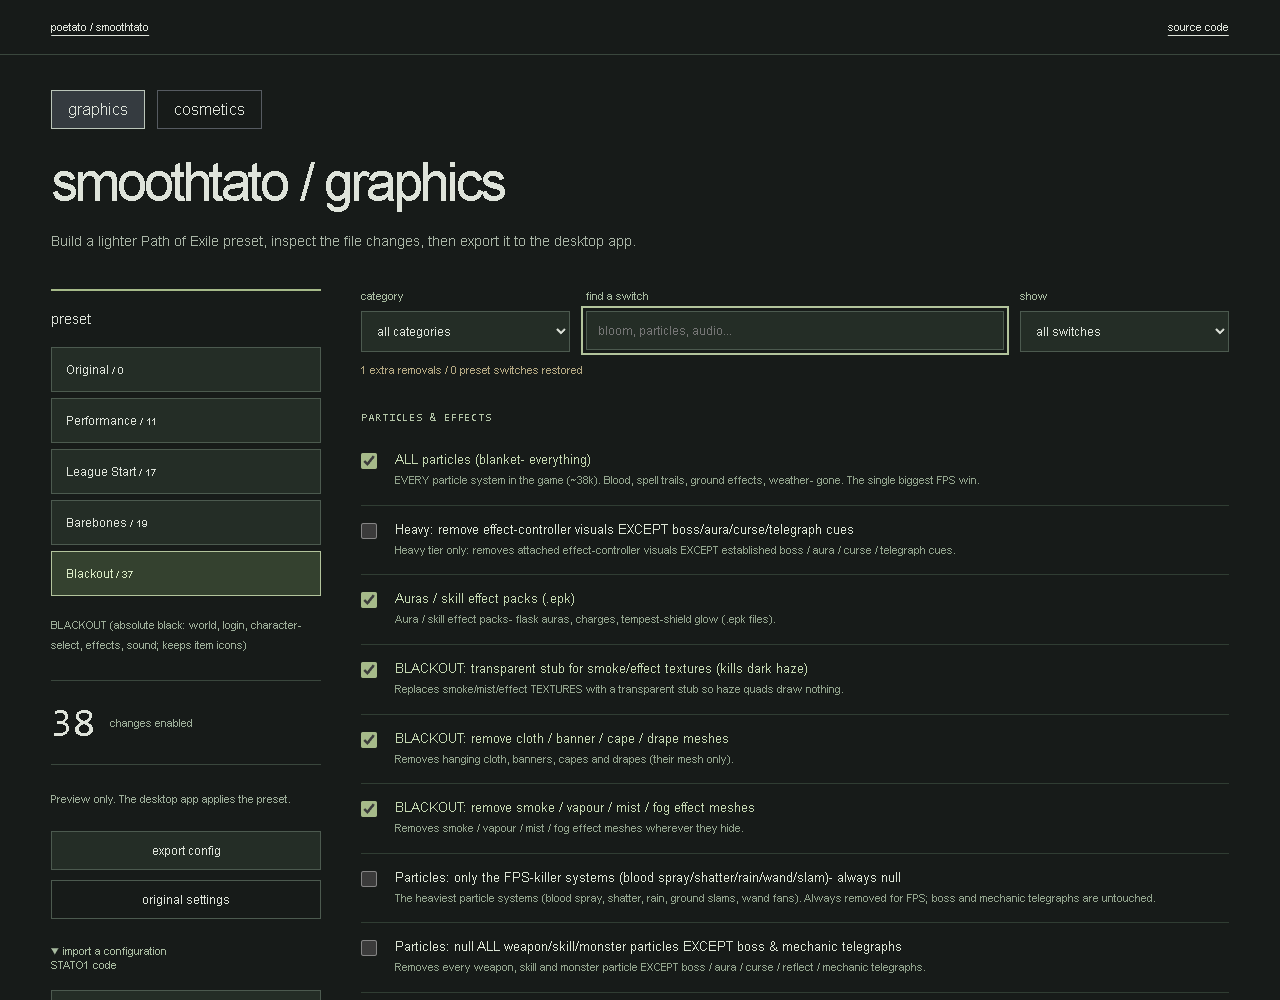
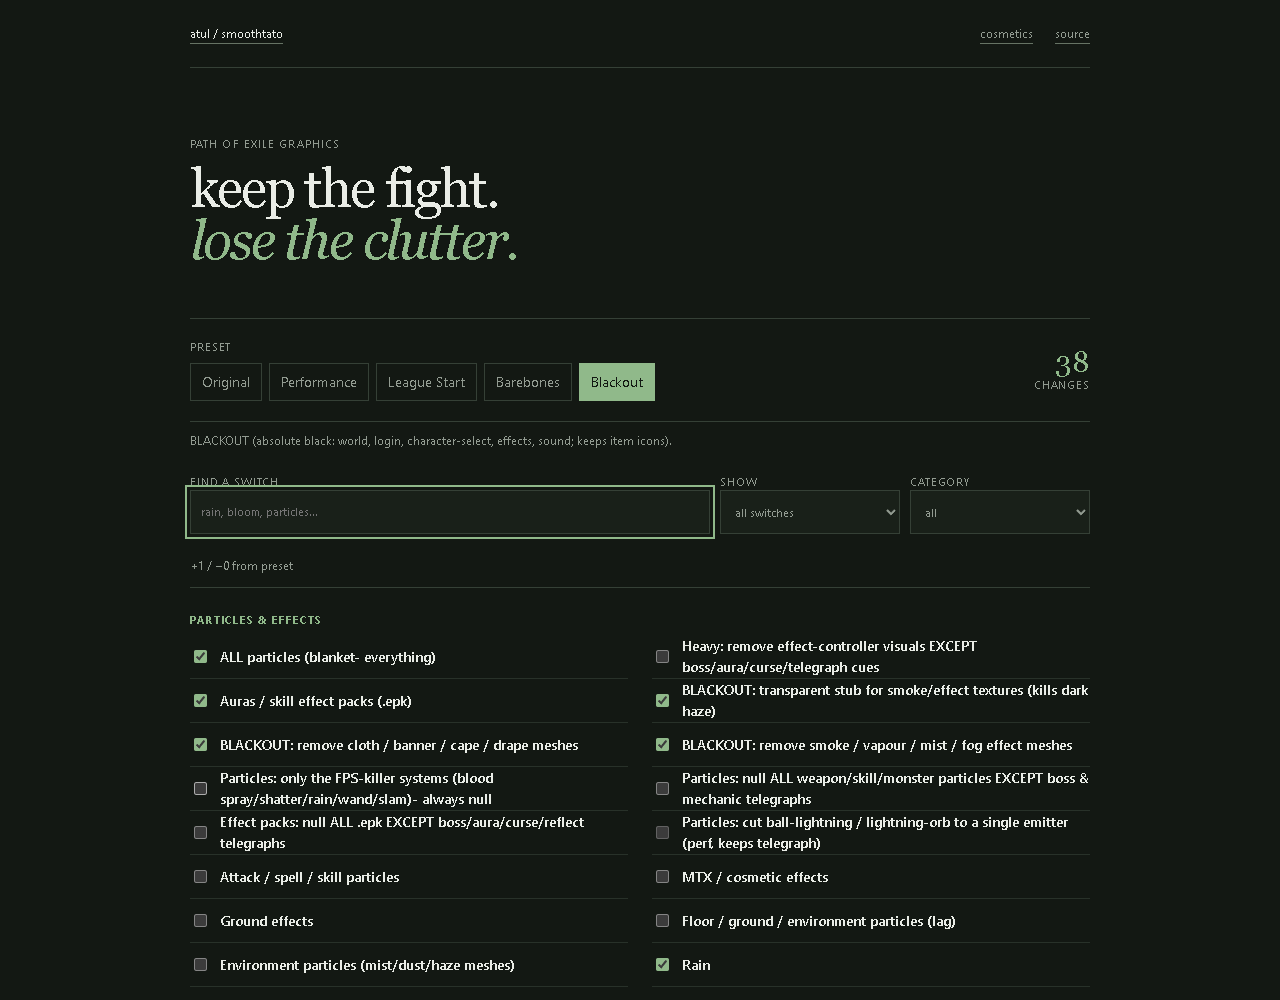
Simplify preset demo

diff --git a/examples/portfolio/style.css b/examples/portfolio/style.css
@@ -1,255 +1,1 @@
-:root {
-    color-scheme: dark;
-    background: #171b19;
-    color: #dee3da;
-    font-family: Arial, sans-serif;
-}
-* {
-    box-sizing: border-box;
-}
-body {
-    margin: 0;
-}
-a {
-    color: inherit;
-    text-underline-offset: 4px;
-}
-header {
-    display: flex;
-    justify-content: space-between;
-    padding: 20px 4vw;
-    border-bottom: 1px solid #3a473d;
-    font-size: 11px;
-}
-main {
-    max-width: 1280px;
-    margin: auto;
-    padding: 35px 4vw;
-}
-h1 {
-    font-size: 54px;
-    font-weight: 500;
-    letter-spacing: -0.055em;
-    margin: 5px 0 15px;
-}
-.intro {
-    font-size: 14px;
-    color: #a9b5a6;
-    max-width: 740px;
-    line-height: 1.8;
-    margin-bottom: 35px;
-}
-.workspace {
-    display: grid;
-    grid-template-columns: 270px minmax(0, 1fr);
-    gap: 40px;
-}
-aside {
-    border-top: 2px solid #a6ba89;
-    padding-top: 8px;
-}
-h2 {
-    font-size: 14px;
-    font-weight: 400;
-}
-button,
-input,
-select,
-textarea {
-    font:
-        12px Arial,
-        sans-serif;
-    color: #dee3da;
-    background: #242d26;
-    border: 1px solid #4c5a4f;
-    padding: 11px;
-}
-button {
-    cursor: pointer;
-}
-button:focus-visible,
-input:focus-visible,
-select:focus-visible {
-    outline: 2px solid #b3c49c;
-    outline-offset: 3px;
-}
-#presets {
-    display: flex;
-    flex-direction: column;
-    gap: 6px;
-    margin: 20px 0;
-}
-#presets button {
-    text-align: left;
-    padding: 14px;
-}
-#presets button[aria-pressed="true"] {
-    border-color: #b3c49c;
-    color: #d9eac5;
-    background: #34412f;
-}
-#preset-description,
-.note,
-#status {
-    font-size: 11px;
-    line-height: 1.8;
-    color: #9cad98;
-}
-.meter {
-    display: flex;
-    align-items: center;
-    gap: 15px;
-    border-top: 1px solid #3a473d;
-    border-bottom: 1px solid #3a473d;
-    padding: 18px 0;
-    margin: 25px 0;
-}
-.meter strong {
-    font: 40px monospace;
-}
-.meter span {
-    font-size: 11px;
-    color: #9cad98;
-    max-width: 120px;
-}
-#export,
-#restore {
-    width: 100%;
-    margin-top: 10px;
-}
-#restore {
-    background: transparent;
-}
-details {
-    font-size: 11px;
-    margin-top: 25px;
-    color: #a8bba0;
-}
-label {
-    display: flex;
-    flex-direction: column;
-    gap: 8px;
-    font-size: 11px;
-    color: #a8bba0;
-}
-.search-row {
-    display: flex;
-    gap: 16px;
-}
-.search-row label:first-child {
-    flex: 1;
-}
-input,
-textarea {
-    width: 100%;
-}
-textarea {
-    margin: 10px 0;
-}
-.group-title {
-    font: 11px monospace;
-    letter-spacing: 0.08em;
-    text-transform: uppercase;
-    color: #b2c4a6;
-    margin: 28px 0 12px;
-}
-.switch {
-    display: grid;
-    grid-template-columns: 22px minmax(0, 1fr);
-    gap: 12px;
-    padding: 15px 0;
-    border-bottom: 1px solid #303d33;
-    cursor: pointer;
-}
-.switch input {
-    width: 16px;
-    height: 16px;
-    accent-color: #a6ba89;
-    margin: 2px 0;
-}
-.switch strong {
-    font-size: 13px;
-    font-weight: 400;
-    color: #dce5d5;
-}
-.switch small {
-    display: block;
-    font-size: 11px;
-    color: #91a38c;
-    line-height: 1.6;
-    margin-top: 5px;
-}
-.switch:has(input:checked) strong {
-    color: #c4d8b1;
-}
-#differences {
-    font-size: 11px;
-    color: #b4a882;
-    min-height: 20px;
-}
-footer {
-    font-size: 11px;
-    color: #84937d;
-    border-top: 1px solid #3a473d;
-    margin-top: 35px;
-    padding-top: 20px;
-    line-height: 1.8;
-}
-@media (max-width: 700px) {
-    main {
-        padding: 25px 15px;
-    }
-    h1 {
-        font-size: 42px;
-    }
-    .workspace {
-        grid-template-columns: 1fr;
-        gap: 25px;
-    }
-    #presets {
-        display: grid;
-        grid-template-columns: repeat(2, minmax(0, 1fr));
-    }
-    .meter {
-        margin: 15px 0;
-    }
-    .search-row {
-        gap: 10px;
-    }
-    .search-row label {
-        min-width: 0;
-    }
-    .search-row input {
-        min-width: 0;
-    }
-    #presets button {
-        font-size: 11px;
-    }
-}
-
-.search-row {
-    display: grid;
-    grid-template-columns: 1fr 2fr 1fr;
-}
-.search-row label:first-child {
-    flex: initial;
-}
-.search-row select {
-    width: 100%;
-}
-@media (max-width: 600px) {
-    .search-row {
-        grid-template-columns: 1fr 1fr;
-    }
-    .search-row label:nth-child(2) {
-        grid-row: 1;
-        grid-column: 1/-1;
-    }
-}
-
-.tool-tabs{display:flex;gap:12px;margin:0 0 22px}.tool-tabs a{padding:9px 16px;border:1px solid #565b61;text-decoration:none;color:inherit}.tool-tabs [aria-current]{background:#353b40;border-color:#bbc6ba}
-
-/* Tactile without becoming decorative. */
-button{transition-property:color,background-color,border-color,scale;transition-duration:120ms;transition-timing-function:cubic-bezier(.2,0,0,1)}
-button:active:not(:disabled){scale:.96}
-@media(prefers-reduced-motion:reduce){button{transition:none}}
+:root{color-scheme:dark;--bg:#131813;--ink:#e9ece6;--muted:#929b91;--line:#354036;--green:#90b98a;--panel:#192019}*{box-sizing:border-box}body{margin:0;background:var(--bg);color:var(--ink);font:14px/1.5 "Segoe UI",Arial,sans-serif}a{color:inherit;text-decoration-color:#667364;text-underline-offset:5px}button,input,select,textarea{font:inherit;color:inherit;border-radius:0}:focus-visible{outline:2px solid var(--green);outline-offset:3px}header,main{width:min(900px,calc(100% - 48px));margin:auto}header{height:68px;display:flex;align-items:center;justify-content:space-between;border-bottom:1px solid var(--line);font-size:12px}header nav{display:flex;gap:22px;color:var(--muted)}main{padding:68px 0}.hero p{margin:0 0 9px;color:var(--muted);font-size:11px;text-transform:uppercase;letter-spacing:.1em}.hero h1{margin:0 0 52px;font:54px/.97 Georgia,serif;font-weight:400;letter-spacing:-.04em}.hero em{color:var(--green);font-weight:400}.presets{display:flex;align-items:end;justify-content:space-between;gap:20px;padding-block:20px;border-block:1px solid var(--line)}.presets>div>span,.controls label{display:block;margin-bottom:7px;color:var(--muted);font-size:11px;text-transform:uppercase;letter-spacing:.08em}#presets{display:flex;flex-wrap:wrap;gap:7px}#presets button{min-height:38px;padding:7px 11px;border:1px solid var(--line);background:transparent;color:var(--muted)}#presets button[aria-pressed=true]{color:#121812;background:var(--green);border-color:var(--green)}#presets small{display:none}.meter{text-align:right}.meter strong{display:block;color:var(--green);font:30px/1 Georgia,serif}.meter span{color:var(--muted);font-size:11px}#preset-description,#differences,#status,#provenance{color:var(--muted);font-size:12px}#preset-description{margin:10px 0 24px}.controls{display:grid;grid-template-columns:1fr 180px 180px;gap:10px;margin-bottom:16px}.controls input,.controls select,textarea{width:100%;min-height:44px;padding:8px 10px;border:1px solid var(--line);background:var(--panel)}#categories{display:grid;grid-template-columns:1fr 1fr;gap:0 24px;border-top:1px solid var(--line)}.group-title{grid-column:1/-1;margin:24px 0 6px;color:var(--green);font-size:11px;text-transform:uppercase;letter-spacing:.09em}.switch{display:flex;align-items:center;gap:10px;min-height:44px;border-bottom:1px solid #283129;cursor:pointer}.switch input{accent-color:var(--green)}.switch strong{font-weight:500}.switch small{display:none}.actions{display:flex;gap:10px;margin-top:25px}.actions button,details button{min-height:42px;padding:8px 13px;border:1px solid var(--line);background:transparent}.actions #export{border-color:var(--green);color:var(--green)}details{margin-top:24px;border-block:1px solid var(--line);padding-bottom:16px}summary{padding:16px 0;color:var(--green);cursor:pointer}details textarea{display:block;max-width:600px;margin-bottom:10px}footer{margin-top:34px;padding-top:18px;border-top:1px solid var(--line)}@media(max-width:650px){header,main{width:calc(100% - 30px)}header{height:58px}main{padding:46px 0}.hero h1{font-size:clamp(40px,13vw,53px)}.presets{align-items:start}.controls{grid-template-columns:1fr 1fr}.controls label:first-child{grid-column:1/-1}#categories{grid-template-columns:1fr}.group-title{grid-column:1}.switch{min-height:48px}}@media(prefers-reduced-motion:reduce){*{transition:none!important}}

diff --git a/examples/portfolio/index.html b/examples/portfolio/index.html
@@ -1,76 +1,13 @@
-<!doctype html>
-<html lang="en">
-    <meta charset="utf-8" /><meta
-        name="viewport"
-        content="width=device-width,initial-scale=1"
-    /><title>smoothtato / visual configuration</title
-    ><link rel="stylesheet" href="style.css" />
-    <body>
-        <header>
-            <a href="https://poetato.app">poetato / smoothtato</a
-            ><a href="https://github.com/LolStar123/smoothtato-preview"
-                >source code</a
-            >
-        </header>
-        <main><nav class="tool-tabs" aria-label="Smoothtato tools"><a href="./" aria-current="page">graphics</a><a href="cosmetics/">cosmetics</a></nav>
-            <h1>smoothtato / graphics</h1>
-            <p class="intro">
-                Build a lighter Path of Exile preset, inspect the file changes,
-                then export it to the desktop app.
-            </p>
-            <div class="workspace">
-                <aside>
-                    <h2>preset</h2>
-                    <div id="presets"></div>
-                    <p id="preset-description"></p>
-                    <div class="meter">
-                        <strong id="selected-count">0</strong
-                        ><span>changes enabled</span>
-                    </div>
-                    <p class="note">
-                        Preview only. The desktop app applies the preset.
-                    </p>
-                    <button id="export">export config</button
-                    ><button id="restore">original settings</button>
-                    <details>
-                        <summary>import a configuration</summary>
-                        <label
-                            >STATO1 code<textarea
-                                id="code"
-                                rows="4"
-                            ></textarea></label
-                        ><button id="import">read the code</button>
-                    </details>
-                    <p id="status" role="status"></p>
-                </aside>
-                <section>
-                    <div class="search-row">
-                        <label
-                            >category<select id="group">
-                                <option value="">all categories</option>
-                            </select></label
-                        >
-                        <label
-                            >find a switch<input
-                                id="search"
-                                type="search"
-                                placeholder="bloom, particles, audio..." /></label
-                        ><label
-                            >show<select id="filter">
-                                <option value="all">all switches</option>
-                                <option value="enabled">enabled only</option>
-                                <option value="changed">
-                                    changed from preset
-                                </option>
-                            </select></label
-                        >
-                    </div>
-                    <p id="differences"></p>
-                    <div id="categories"></div>
-                </section>
-            </div>
-            <footer id="provenance"></footer>
-        </main>
-        <script type="module" src="app.mjs"></script>
-    </body>
-</html>
+<!doctype html><html lang="en"><head><meta charset="utf-8"><meta name="viewport" content="width=device-width,initial-scale=1"><title>smoothtato / graphics presets</title><link rel="stylesheet" href="style.css"></head><body>
+<header><a href="https://lolstar123.github.io/just-a-little-further/">atul / smoothtato</a><nav><a href="cosmetics/">cosmetics</a><a href="https://github.com/LolStar123/smoothtato-preview">source</a></nav></header>
+<main>
+<section class="hero"><p>path of exile graphics</p><h1>keep the fight.<br><em>lose the clutter.</em></h1></section>
+<section class="presets"><div><span>preset</span><div id="presets"></div></div><div class="meter"><strong id="selected-count">0</strong><span>changes</span></div></section>
+<p id="preset-description"></p>
+<div class="controls"><label>find a switch<input id="search" type="search" placeholder="rain, bloom, particles…"></label><label>show<select id="filter"><option value="enabled">this preset</option><option value="all">all switches</option><option value="changed">my changes</option></select></label><label class="group-control">category<select id="group"><option value="">all</option></select></label></div>
+<p id="differences"></p>
+<section id="categories" aria-label="Graphics switches"></section>
+<div class="actions"><button id="export">export preset</button><button id="restore">reset</button></div>
+<details><summary>import a preset</summary><textarea id="code" rows="3" aria-label="STATO1 code"></textarea><button id="import">import</button></details>
+<p id="status" role="status"></p><footer id="provenance"></footer>
+</main><script type="module" src="app.mjs"></script></body></html>
